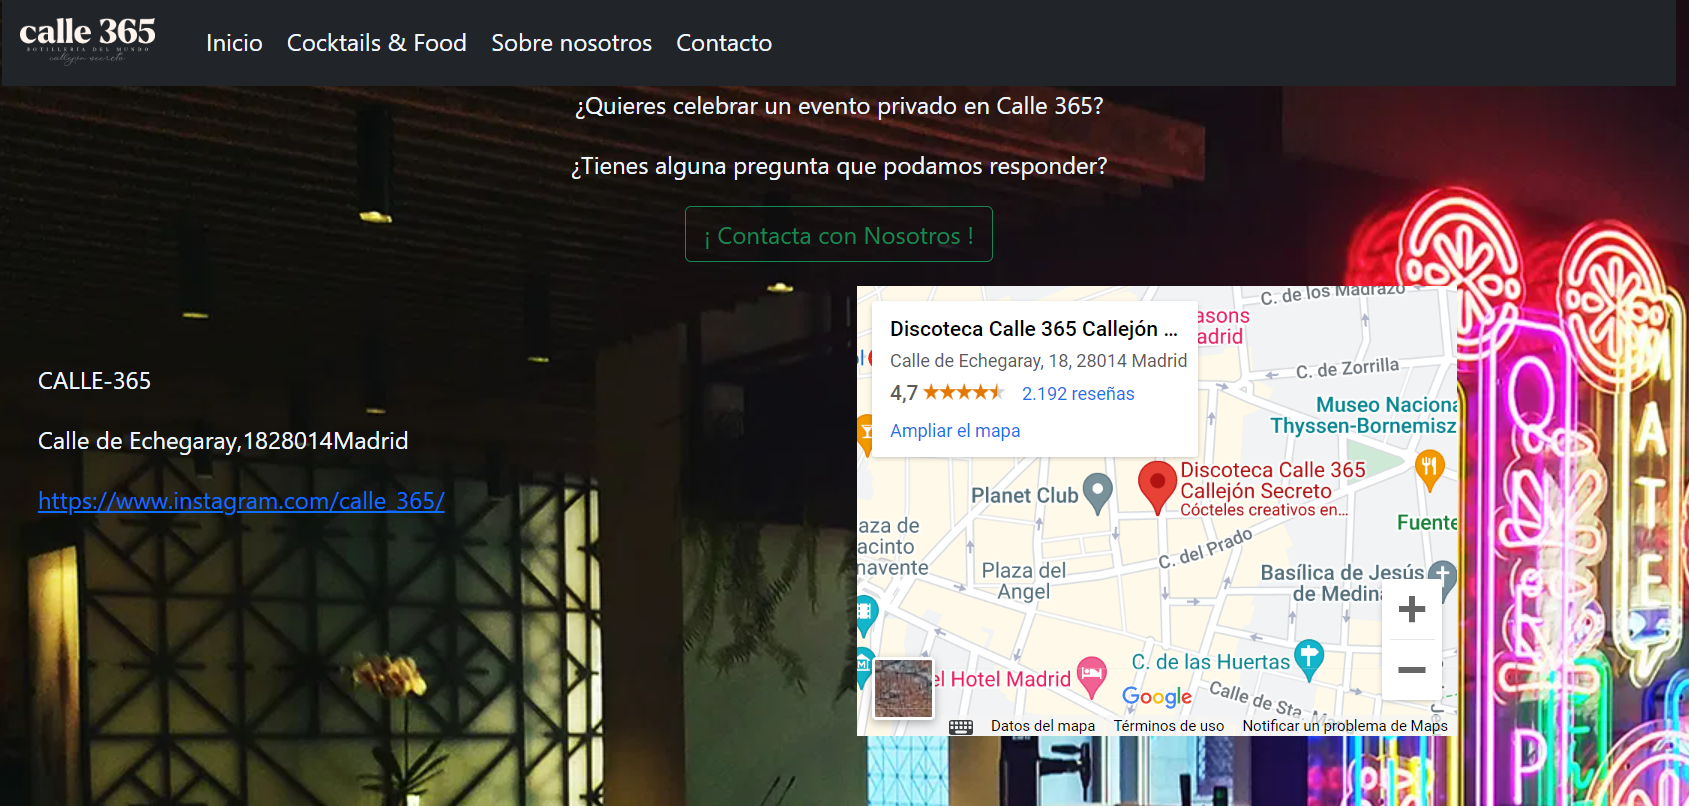
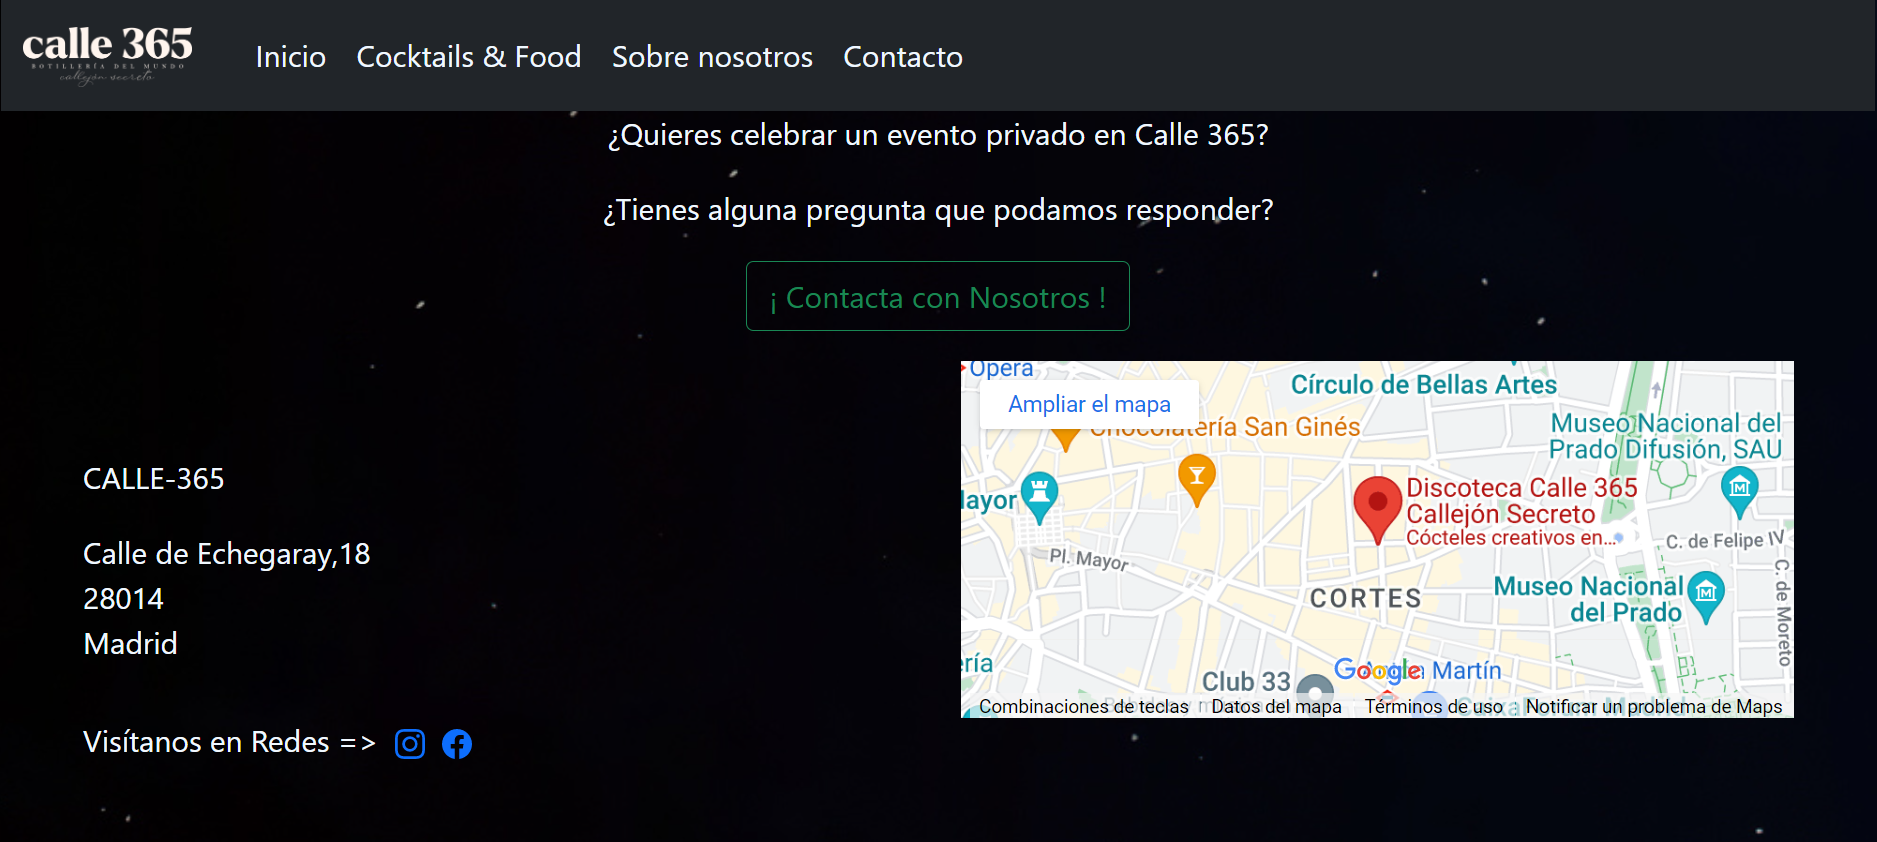
Actualizado readme

diff --git a/README.md b/README.md
@@ -19,7 +19,7 @@ Aquí tenemos un primer vistazo a la página "Cocktails&Food", dónde hemos aña
 
 ![imagen](./img/img%20readme%203.PNG) ; ![imagen](./img/img%20readme%204.PNG)
 
-Por último, en contacto he creado un botón que enlaza directamente con el envío de un mail y añadida la localización GPS del local. También incluye un enlace directo al Instagram del restaurante.
+Por último, en contacto he creado un botón que enlaza directamente con el envío de un mail y añadida la localización GPS del local. También incluye un enlace directo mediante iconos a las páginas de Instagram y Facebook del restaurante.
 
 ![imagen](./img/img%20readme%205.PNG)
 
